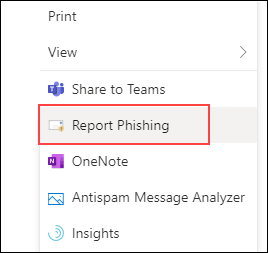
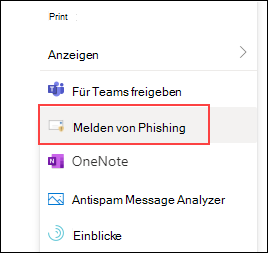
commit translated contents

diff --git a/microsoft-365/security/office-365-security/set-up-spf-in-office-365-to-help-prevent-spoofing.md b/microsoft-365/security/office-365-security/set-up-spf-in-office-365-to-help-prevent-spoofing.md
@@ -18,33 +18,34 @@ ms.collection:
 ms.custom:
 - seo-marvel-apr2020
 description: Erfahren Sie, wie ein DNS-Eintrag (Domain Name Service) für die Verwendung von SPF (Sender Policy Framework) mit Ihrer benutzerdefinierten Domäne in Office 365 aktualisiert wird.
-ms.openlocfilehash: a6cd2a0cf60812bb874c1be63fb2d294cda6d6aa
-ms.sourcegitcommit: 31be333178b934c519f419656f4c3a53e1beffdc
+ms.openlocfilehash: 536f727ee71db70490259179ff8e47009c547f89
+ms.sourcegitcommit: 64262f6f42dcce6a4608b2e3c7ca6190b7009093
 ms.translationtype: HT
 ms.contentlocale: de-DE
-ms.lasthandoff: 01/16/2021
-ms.locfileid: "49881717"
+ms.lasthandoff: 01/19/2021
+ms.locfileid: "49905223"
 ---
 # <a name="set-up-spf-to-help-prevent-spoofing"></a>Einrichten von SPF zum Verhindern von Spoofing
 
 [!INCLUDE [Microsoft 365 Defender rebranding](../includes/microsoft-defender-for-office.md)]
 
-- [Voraussetzungen <a name="UpdateSPFTXT"></a>](#updating-your-spf-txt-record-for-office-365-a-nameUpdateSPFTXT)
-- [Erstellen / Aktualisieren Ihres SPF TXT-Eintrags für Office 365 <a name="CreateUpdateSPFTXT"></a>](#to-create-or-update-your-spf-txt-record-a-namecreateupdatespftxta)
-    - [Wie kann ich Subdomänen behandeln? <a name="SPFandSubdomains"></a>](#how-to-handle-subdomains-a-namespfandsubdomainsa)
-- [SPF-Problembehandlung und bewährte Verfahren <a name="TshootingSPF"></a>](#next-steps-after-you-set-up-spf-for-office-365-a-nametshootingspfa)
-- [Erweiterte SPF-Beispiele <a name="AdvancedSPFexs"></a>](#more-information-about-spf-a-nameadvancedspfexsa)
+- [Voraussetzungen](#prerequisites)
+- [Erstellen oder aktualisieren Sie Ihren SPF TXT-Eintrag](#create-or-update-your-spf-txt-record)   
+  - [Wie kann ich Subdomänen behandeln?](#how-to-handle-subdomains)
+- [Was ist der Zweck der SPF-E-Mail-Authentifizierung?](#what-does-spf-email-authentication-actually-do)   
+   - [Problembehandlung von SPF](#troubleshooting-spf)
+- [Weitere Informationen zu SPF](#more-information-about-spf)
 
 Dieser Artikel enthält Informationen zum Aktualisieren eines DNS-Eintrags (Domain Name Service) für die Verwendung von SPF (Sender Policy Framework) -E-Mail-Authentifizierung mit Ihrer benutzerdefinierten Domäne in Office 365.
 
 SPF hilft bei der Überprüfung ausgehender E-Mails, die von Ihrer benutzerdefinierten Domäne gesendet werden. Es ist ein erster Schritt zur Einrichtung der anderen empfohlenen E-Mail-Authentifizierungsmethoden DMARC und DKIM (zwei weitere in Office 365 unterstützte E-Mail-Authentifizierungsmethoden).
 
-## <a name="updating-your-spf-txt-record-for-office-365"></a>Aktualisieren Ihres SPF TXT-Eintrags für Office 365 <a name="UpdateSPFTXT"></a>
+## <a name="prerequisites"></a>Voraussetzungen
 
 > [!IMPORTANT]
 > Wenn Sie ein **kleines Unternehmen** sind oder mit IP-Adressen oder DNS-Konfigurationen nicht vertraut sind, wenden Sie sich an Ihre Internet-Domänenregistrierungsstelle (z. B. GoDaddy, Bluehost, web.com), um Hilfe zur DNS-Konfiguration von SPF (und anderen E-Mail-Authentifizierungsmethoden) zu erhalten. *Ebenfalls*, wenn Sie keine benutzerdefinierte URL gekauft haben oder verwenden (d. h. die URL, die Sie und Ihre Kunden durchsuchen, um Office 365 zu erreichen, endet auf **onmicrosoft.com**), wurde SPF für Sie im Office 365-Dienst eingerichtet. In diesem Fall sind keine weiteren Schritte mehr erforderlich. Vielen Dank fürs Lesen.
 
-Bevor Sie den TXT-Eintrag im DNS aktualisieren, müssen Sie einige Informationen sammeln, die für die Erstellung des Eintrags erforderlich sind. Erweiterte Beispiele und eine ausführlichere Erläuterung zur unterstützten SPF-Syntax finden Sie unter [Funktionsweise von SPF zur Verhinderung von Spoofing und Phishing in Office 365](how-office-365-uses-spf-to-prevent-spoofing.md#HowSPFWorks).
+Bevor Sie den SPF TXT-Eintrag für Office 365 im externen DNS erstellen oder aktualisieren, müssen Sie einige Informationen sammeln, die für die Erstellung des Eintrags erforderlich sind. Erweiterte Beispiele und eine ausführlichere Erläuterung zur unterstützten SPF-Syntax finden Sie unter [Funktionsweise von SPF zur Verhinderung von Spoofing und Phishing in Office 365](how-office-365-uses-spf-to-prevent-spoofing.md#HowSPFWorks).
 
 Sammeln Sie folgende Informationen:
 
@@ -59,7 +60,7 @@ Sammeln Sie folgende Informationen:
 > [!IMPORTANT]
 > Für die Verwendung einer benutzerdefinierten Domäne erfordert Office 365, einen SPF (Sender Policy Framework) TXT-Eintrag Ihrem DNS-Eintrag hinzuzufügen, um Spoofing zu verhindern.
 
-## <a name="create-or-update-your-spf-txt-record"></a>Erstellen oder Aktualisieren Sie den SPF TXT-Eintrag <a name="CreateUpdateSPFTXT"></a>
+## <a name="create-or-update-your-spf-txt-record"></a>Erstellen oder aktualisieren Sie Ihren SPF TXT-Eintrag
 
 1. Machen Sie sich mit der SPF-Syntax in der folgenden Tabelle vertraut.
 
@@ -98,7 +99,7 @@ Sammeln Sie folgende Informationen:
 
 4. Testen Sie Ihren SPF TXT-Eintrag.
 
-## <a name="how-to-handle-subdomains"></a>Wie kann ich Subdomänen behandeln? <a name="SPFandSubdomains"></a>
+## <a name="how-to-handle-subdomains"></a>Wie kann ich Subdomänen behandeln?
 
 Es ist wichtig zu beachten, *dass Sie für jede Subdomäne einen separaten Eintrag erstellen müssen, da Subdomänen nicht den SPF-Eintrag der Domäne der obersten Ebene erben*.
 
@@ -108,7 +109,7 @@ Ein zusätzlicher Wildcard-SPF-Eintrag (`*.`) ist für jede Domäne und Subdomä
 *.subdomain.contoso.com. IN TXT "v=spf1 -all"
 ```
 
-## <a name="next-steps"></a>Nächste Schritte <a name="TshootingSPF"></a>
+## <a name="troubleshooting-spf"></a>Problembehandlung von SPF
 
 Gibt es Probleme mit Ihrem SPF TXT-Eintrag? Lesen Sie [Problembehandlung: Bewährte Methoden für SPF in Office 365](how-office-365-uses-spf-to-prevent-spoofing.md#SPFTroubleshoot).
 
@@ -129,7 +130,7 @@ Wenn Sie bereits E-Mail für Office 365 eingerichtet haben, haben Sie bereits di
 
 - Sie möchten DKIM und DMARC einrichten (empfohlen).
 
-## <a name="more-information-about-spf"></a>Weitere Informationen zu SPF <a name="AdvancedSPFexs"></a>
+## <a name="more-information-about-spf"></a>Weitere Informationen zu SPF
 
 Erweiterte Beispiele, eine ausführlichere Erläuterung zur unterstützten SPF-Syntax, zu Spoofing, zur Problembehandlung und zur Unterstützung von SPF durch Office 365 finden Sie unter [How SPF works to prevent spoofing and phishing in Office 365](how-office-365-uses-spf-to-prevent-spoofing.md#HowSPFWorks).
 

diff --git a/microsoft-365/compliance/encryption-sensitivity-labels.md b/microsoft-365/compliance/encryption-sensitivity-labels.md
@@ -16,12 +16,12 @@ search.appverid:
 - MET150
 description: Konfigurieren Sie Vertraulichkeitsbezeichnungen für die Verschlüsselung, die Ihre Daten durch Einschränken von Zugriff und Nutzung schützt.
 ms.custom: seo-marvel-apr2020
-ms.openlocfilehash: b862cbffcc4268876444618f7c2708c04b63630e
-ms.sourcegitcommit: 4debeb8f0fce67f361676340fc390f1b283a3069
+ms.openlocfilehash: 83ed515d5ac6ea853c3e6a822fae0a03f73fc37c
+ms.sourcegitcommit: 9e4b3df05eff94fe1be4ef8618a7ce6f2fca3658
 ms.translationtype: HT
 ms.contentlocale: de-DE
-ms.lasthandoff: 12/03/2020
-ms.locfileid: "49561716"
+ms.lasthandoff: 01/19/2021
+ms.locfileid: "49904030"
 ---
 # <a name="restrict-access-to-content-by-using-sensitivity-labels-to-apply-encryption"></a>Einschränken des Zugriffs auf Inhalte mithilfe von Vertraulichkeitsbezeichnungen zur Verschlüsselung
 
@@ -178,6 +178,9 @@ Als bewährte Methode sollten Sie besser Gruppen anstelle von Benutzern verwende
 
 Diese Einstellung schränkt den Zugriff der Benutzer auf den Inhalt nicht ein, der von der Bezeichnung verschlüsselt wird, während sie den Inhalt weiterhin verschlüsselt und Ihnen Optionen zum Einschränken des Inhalts (Berechtigungen) und zum Zugriff auf (Ablauf und Offlinezugriff) bietet. Die Anwendung, die die verschlüsselten Inhalte öffnet, muss die verwendete Authentifizierung unterstützen können. Aus diesem Grund funktionieren Partner-Sozialnetwerkanbieter wie Google und die Authentifizierung mit einer Einmalkennung nur für E-Mail und nur dann, wenn Sie Exchange Online verwenden. Microsoft-Konten können mit Office 365-Apps und dem [Azure Information Protection-Viewer](https://portal.azurerms.com/#/download)verwendet werden.
 
+> [!NOTE]
+> Erwägen Sie die Verwendung dieser Einstellung mit [SharePoint- und OneDrive-Integration in Azure AD B2B](https://docs.microsoft.com/sharepoint/sharepoint-azureb2b-integration-preview) wenn Vertraulichkeitsbezeichnungen [für Office-Dateien in SharePoint und OneDrive aktiviert](sensitivity-labels-sharepoint-onedrive-files.md) sind.
+
 Einige typische Szenarien für die Einstellung "Alle authentifizierten Benutzer":
 
 - Es ist Ihnen egal, wer auf den Inhalt zugreift, aber Sie möchten die Verwendung einschränken. So möchten Sie beispielsweise nicht, dass der Inhalt bearbeitet, kopiert oder gedruckt wird.
@@ -274,7 +277,7 @@ So können Die Benutzer mithilfe des Azure Information Protection-Clients mit ei
 
 Bei der integrierten Bezeichnung sehen die Benutzer dasselbe Dialogfeld, wenn Sie Folgendes auswählen:
 
-- Windows: Registerkarte **Datei** > **Info** > **Dokument schützen** > **Zugriff einschränken** > **Eingeschränkter Zugriff**
+- Windows: Registerkarte **"Datei"** > **Info** > **Dokument schützen** > **Zugriff einschränken** > **Eingeschränkter Zugriff**
 
 - macOS: Registerkarte **Überprüfen** > **Schutz** > **Berechtigungen** > **Eingeschränkter Zugriff**
 
@@ -383,11 +386,11 @@ Durch die Verschlüsselung Ihrer sensibelsten Dokumente und E-Mails können Sie 
 
 - Die Funktion [Automatisches Speichern](https://support.office.com/article/what-is-autosave-6d6bd723-ebfd-4e40-b5f6-ae6e8088f7a5) in Office-Apps (Windows-, Mac-, Android-und IOS) ist für verschlüsselte Dateien deaktiviert. Benutzern wird eine Meldung angezeigt, dass die Datei eingeschränkte Berechtigungen hat, die entfernt werden müssen, bevor das automatische Speichern aktiviert werden kann.
 
-- Das Öffnen verschlüsselter Dateien in Office-Apps (Windows, Mac, Android und iOS) kann länger dauern.
+- Das Öffnen verschlüsselter Dateien in Office-Anwendungen (Windows, Mac, Android und iOS) kann länger dauern.
 
 - Wenn beim [Auschecken des Dokuments in SharePoint](https://support.microsoft.com/office/check-out-check-in-or-discard-changes-to-files-in-a-library-7e2c12a9-a874-4393-9511-1378a700f6de) mithilfe einer Office-App eine Bezeichnung hinzugefügt wird, die Verschlüsselung anwendet, und der Benutzer dann das Auschecken verwirft, bleibt das Dokument mit der Bezeichnung versehen und wird verschlüsselt.
 
-- Die folgenden Aktionen für verschlüsselte Dateien werden von Office-Apps (Windows, Mac, Android und iOS) nicht unterstützt und Benutzern wird eine Fehlermeldung angezeigt, dass etwas schief gelaufen ist. Allerdings kann die SharePoint-Funktionalität als Alternative verwendet werden:
+- Die folgenden Aktionen für verschlüsselte Dateien werden von Office-Apps (Windows, Mac, Android und IOS) nicht unterstützt und Benutzern wird eine Fehlermeldung angezeigt, dass etwas schief gelaufen ist. Allerdings kann die SharePoint-Funktionalität als Alternative verwendet werden:
 
   - Anzeigen, wiederherstellen und speichern von Kopien früherer Versionen. Alternativ können Benutzer diese Aktionen mit Office im Web durchführen, wenn sie Folgendes verwenden: [Aktivieren und Konfigurieren der Versionsverwaltung für eine Liste oder Bibliothek](https://support.office.com/article/enable-and-configure-versioning-for-a-list-or-library-1555d642-23ee-446a-990a-bcab618c7a37).
   - Ändern des Namens oder des Speicherorts der Dateien. Alternativ können Benutzer in SharePoint [eine Datei, einen Ordner oder einen Link in einer Dokumentbibliothek umbenennen](https://support.microsoft.com/office/rename-a-file-folder-or-link-in-a-document-library-bc493c1a-921f-4bc1-a7f6-985ce11bb185).
@@ -413,3 +416,6 @@ Bevor Sie Verschlüsselung verwenden können, müssen Sie möglicherweise einige
     - Für Exchange Online lesen Sie die Anweisungen für [Exchange Online: Konfigurieren von IRM](https://docs.microsoft.com/azure/information-protection/configure-office365#exchangeonline-irm-configuration).
     - For das lokale Exchange müssen Sie den [RMS-Connector bereitstellen und Ihre Exchange-Server konfigurieren](https://docs.microsoft.com/azure/information-protection/deploy-rms-connector). 
 
+## <a name="next-steps"></a>Nächste Schritte
+
+Müssen Sie Ihre gekennzeichneten und verschlüsselten Dokumente mit Personen außerhalb Ihrer Organisation teilen?  Informationen hierzu finden Sie unter [Teilen verschlüsselter Dokumente mit externen Benutzern](sensitivity-labels-office-apps.md#sharing-encrypted-documents-with-external-users).

diff --git a/microsoft-365/compliance/retention-policies-sharepoint.md b/microsoft-365/compliance/retention-policies-sharepoint.md
@@ -17,12 +17,12 @@ search.appverid:
 - MOE150
 - MET150
 description: Informationen, wie die Aufbewahrung für SharePoint und OneDrive funktioniert.
-ms.openlocfilehash: 995f657778d3326a4d58d46f760539639f1fe7fe
-ms.sourcegitcommit: 3bf4f1c0d3a8515cca651b2a520217195f89457f
+ms.openlocfilehash: 0ce3a95754bcffd118d78b7919eb6773d3f14b54
+ms.sourcegitcommit: 9e4b3df05eff94fe1be4ef8618a7ce6f2fca3658
 ms.translationtype: HT
 ms.contentlocale: de-DE
-ms.lasthandoff: 01/07/2021
-ms.locfileid: "49777068"
+ms.lasthandoff: 01/19/2021
+ms.locfileid: "49903990"
 ---
 # <a name="learn-about-retention-for-sharepoint-and-onedrive"></a>Informationen zur Aufbewahrung für SharePoint und OneDrive
 
@@ -59,7 +59,7 @@ Aufbewahrungsrichtlinien und Bezeichnungsrichtlinien für die automatische Anwen
 
 Zur Unterstützung der Aufbewahrung erstellen SharePoint und OneDrive ein permanentes Dokumentenarchiv, sofern es noch nicht vorhanden ist. Sie können diese Bibliothek auf der Seite **Websiteinhalte** der Website auf oberster Ebene der Websitesammlung anzeigen. Die meisten Benutzer können das permanente Dokumentarchiv nicht anzeigen, da es nur für Websitesammlungsadministratoren sichtbar ist.
   
-Wenn jemand versucht, ein Dokument zu ändern oder zu löschen, das den Aufbewahrungseinstellungen unterliegt, wird geprüft, ob der Inhalt seit der Anwendung der Aufbewahrungseinstellungen geändert wurde. Wenn dies die erste Änderung seit Anwendung der Aufbewahrungseinstellungen ist, wird der Inhalt in das permanente Dokumentarchiv kopiert. Dies ermöglicht dem Benutzer das Ändern oder Löschen des ursprünglichen Inhalts. Jeder Inhalt in einer Websitesammlung kann unabhängig von den Aufbewahrungseinstellungen in das permanente Dokumentenarchiv kopiert werden.
+Wenn jemand versucht, ein Dokument zu ändern oder zu löschen, das der Aufbewahrung der Inhalte unterliegt, wird geprüft, ob der Inhalt seit der Anwendung der Aufbewahrungseinstellungen geändert wurde. Wenn dies die erste Änderung seit Anwendung der Aufbewahrungseinstellungen ist, wird der Inhalt in das permanente Dokumentarchiv kopiert. Dies ermöglicht dem Benutzer das Ändern oder Löschen des ursprünglichen Inhalts. Jeder Inhalt in einer Websitesammlung kann unabhängig von den Aufbewahrungseinstellungen in das permanente Dokumentenarchiv kopiert werden.
   
 Ein Zeitgeberauftrag bereinigt in regelmäßigen Abständen das permanente Dokumentarchiv. Dieser vergleicht sämtliche Inhalte im permanenten Dokumentarchiv mit allen Abfragen, die von den Aufbewahrungseinstellungen für diese Inhalte verwendet werden. Inhalte, die älter als die darin konfigurierte Aufbewahrungszeit sind, werden aus dem permanenten Dokumentarchiv sowie vom ursprünglichen Speicherort gelöscht, sofern sie dort noch vorhanden sind. Dieser Zeitgeberauftrag wird alle sieben Tage ausgeführt, was bedeutet, dass es bis zu sieben Tage dauern kann, bis Inhalte gelöscht werden.
   
@@ -73,7 +73,7 @@ Wenn die Aufbewahrungseinstellungen das Aufbewahren und Löschen vorgeben:
 
 ![Diagramm des Inhaltslebenszyklus in SharePoint und OneDrive](../media/Retention_Diagram_of_retention_flow_in_sites.png)
   
-1. **Wenn der Inhalt während des Aufbewahrungszeitraums geändert oder gelöscht wird**, wird eine Kopie des ursprünglichen Inhalts in der beim Zuweisen der Richtlinie vorhandenen Form im permanenten Dokumentarchiv erstellt. Dort ermittelt der Zeitgeberauftrag Elemente, deren Aufbewahrungszeitraum abgelaufen ist. Diese Elemente werden in den endgültigen Papierkorb verschoben, von wo sie nach Ablauf von 93 Tagen endgültig gelöscht werden. Der endgültige Papierkorb wird den Endbenutzern nicht angezeigt (sie sehen nur den Standardpapierkorb), Websitesammlungsadministratoren können hingegen dessen Inhalte anzeigen und wiederherstellen.
+1. **Wenn der Inhalt während des Aufbewahrungszeitraums geändert oder gelöscht wird**, wird eine Kopie des ursprünglichen Inhalts in der beim Zuweisen der Aufbewahrungseinstellungen vorhandenen Form im permanenten Dokumentarchiv erstellt. Dort ermittelt der Zeitgeberauftrag Elemente, deren Aufbewahrungszeitraum abgelaufen ist. Diese Elemente werden in den endgültigen Papierkorb verschoben, von wo sie nach Ablauf von 93 Tagen endgültig gelöscht werden. Der endgültige Papierkorb wird den Endbenutzern nicht angezeigt (sie sehen nur den Standardpapierkorb), Websitesammlungsadministratoren können hingegen dessen Inhalte anzeigen und wiederherstellen.
 
     > [!NOTE]
     > Um versehentlichem Datenverlust vorzubeugen, werden Inhalte nicht mehr dauerhaft aus dem permanenten Dokumentarchiv gelöscht. Stattdessen werden Inhalte nur aus dem Papierkorb dauerhaft gelöscht, sodass nun sämtliche Inhalte aus dem permanenten Dokumentarchiv den endgültigen Papierkorb durchlaufen werden.

diff --git a/microsoft-365/solutions/empower-people-to-work-remotely-remote-access.md b/microsoft-365/solutions/empower-people-to-work-remotely-remote-access.md
@@ -17,12 +17,12 @@ ms.collection:
 - m365solution-scenario
 ms.custom: ''
 description: Stellen Sie sicher, dass Ihre Remotemitarbeiter auf lokale Ressourcen zugreifen können, während Sie den Zugriff auf die Microsoft 365-Clouddienste optimieren.
-ms.openlocfilehash: 1fbb1cb6ad9817f0e167ae95f9fc113ecdee4221
-ms.sourcegitcommit: 554755bc9ce40228ce6e34bde6fc6e226869b6a1
+ms.openlocfilehash: a9a8c972d58c7d2bac3f49ad602578358406c5a0
+ms.sourcegitcommit: 99a7354e6a6b4d9d5202674ef57852d52a43fef6
 ms.translationtype: HT
 ms.contentlocale: de-DE
-ms.lasthandoff: 10/22/2020
-ms.locfileid: "48681420"
+ms.lasthandoff: 01/20/2021
+ms.locfileid: "49908329"
 ---
 # <a name="step-2-provide-remote-access-to-on-premises-apps-and-services"></a>Schritt 2: Bereitstellung des Remotezugriffs auf lokale Apps und Dienste
 
@@ -51,7 +51,7 @@ Ohne geteilte Tunnel wird der gesamte Datenverkehr im Rahmend er Remotearbeit ü
 
 ![Netzwerkdatenverkehr von VPN-Clients ohne Tunneling](../media/empower-people-to-work-remotely-remote-access/empower-people-to-work-remotely-remote-access-before-tunneling.png)
 
-Der Microsoft 365-Datenverkehr muss eine indirekte Route durch Ihre Organisation nehmen, die zu einem Microsoft-Netzwerkeintrittspunkt weit entfernt vom physischen Standort des VPN-Clients weitergeleitet werden könnte. Dieser indirekte Pfad erhöht die Latenz des Netzwerkverkehrs und verringert die Gesamtleistung. 
+Der Microsoft 365-Datenverkehr muss eine indirekte Route durch Ihre Organisation nehmen, die zu einem Microsoft-Netzwerkeintrittspunkt weit entfernt vom physischen Standort des VPN-Clients weitergeleitet werden könnte. Dieser indirekte Pfad erhöht die Latenz des Netzwerkverkehrs und verringert die Gesamtleistung. 
 
 Mit geteilten Tunneln können Sie Ihren VPN-Client so konfigurieren, dass bestimmte Typen von Datenverkehr von der Übertragung über die VPN-Verbindung zum Unternehmensnetzwerk ausgeschlossen werden.
 

diff --git a/microsoft-365/compliance/records-management.md b/microsoft-365/compliance/records-management.md
@@ -21,12 +21,12 @@ ms.custom:
 - seo-marvel-apr2020
 - seo-marvel-jun2020
 description: Mit der Datensatzverwaltung in Microsoft 365 können Sie Ihre Aufbewahrungszeitpläne auf einen Dateiplan anwenden, der die Aufbewahrung, die Datensatzdeklaration und die Löschung verwaltet.
-ms.openlocfilehash: 0057be98c79ec07018d86f3130d7e03d68c74446
-ms.sourcegitcommit: 7d4aa58ae9fc893825b6e648fa3f072c3ac59628
+ms.openlocfilehash: 1f6ab392abbf55851e1f084507d3f1658c3cf264
+ms.sourcegitcommit: 64262f6f42dcce6a4608b2e3c7ca6190b7009093
 ms.translationtype: HT
 ms.contentlocale: de-DE
-ms.lasthandoff: 01/09/2021
-ms.locfileid: "49790201"
+ms.lasthandoff: 01/19/2021
+ms.locfileid: "49905234"
 ---
 # <a name="learn-about-records-management-in-microsoft-365"></a>Weitere Informationen zur Datensatzverwaltung in Microsoft 365
 
@@ -85,7 +85,7 @@ Eine Standard-Aufbewahrungsbezeichnung verfügt über Aufbewahrungseinstellungen
 |Löschen|Zulässig <sup>1</sup> |**Gesperrt** |**Gesperrt**| **Gesperrt**|
 |Kopie|Zulässig |Allowed | Zulässig| Zulässig|
 |Innerhalb eines Containers bewegen<sup>2</sup>|Zulässig |Zulässig | Allowed| Zulässig|
-|Über Container hinweg bewegen <sup>2</sup>|Zulässig |Zulässig, wenn nie entsperrt | Zulässig| **Gesperrt**|
+|Über Container hinweg bewegen <sup>2</sup>|Zulässig |Zulässig, wenn nie entsperrt | **Gesperrt** | **Gesperrt**|
 |Öffnen/Lesen|Zulässig |Zulässig | Zulässig| Allowed|
 |Ändern der Bezeichnung|Zulässig |Zulässig – nur Container-Administrator | Zulässig – nur Container-Administrator| **Gesperrt**
 |Bezeichnung entfernen|Zulässig |Zulässig – nur Container-Administrator | Zulässig – nur Container-Administrator| **Gesperrt**
